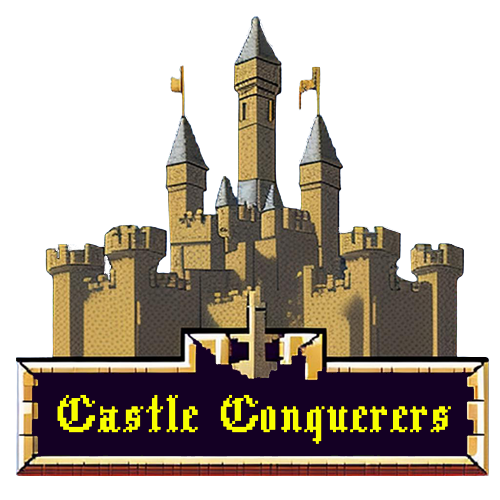
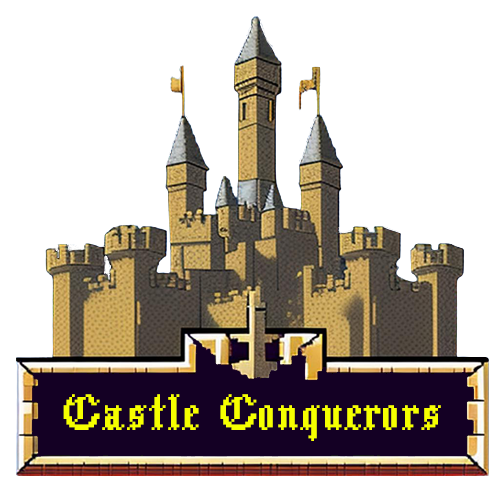
Refactor view for title (css)

Changed region(s): [[0.09, 0.78, 0.9, 0.9]]

diff --git a/ClientCastleConquerors/client-lib/src/main/resources/static/styles/homePage.css b/ClientCastleConquerors/client-lib/src/main/resources/static/styles/homePage.css
@@ -171,7 +171,7 @@ body.fade-out {
 /* game title styles */
 .login-body .game-title {
     position: absolute;
-    top: 20%;
+    top: 10%;
     text-shadow: 3px 3px 0 rgba(0,0,0,0.2), -3px -3px 0 rgba(0,0,0,0.2), 3px -3px 0 rgba(0,0,0,0.2), -3px 3px 0 rgba(0,0,0,0.2);
     font-family: StgoticW00-Regular;
     font-size: 3.2rem;

diff --git a/ClientCastleConquerors/client-lib/src/main/java/main/Endpoints.java b/ClientCastleConquerors/client-lib/src/main/java/main/Endpoints.java
@@ -23,9 +23,9 @@ public class Endpoints {
 	
 	@GetMapping("/game") 
 	public String getGamePage(Model model, HttpSession session) {
-		if (!isLoggedIn(session)) return "redirect:/login";
-    	String loggedInUser = getLoggedInUser(session);
-        model.addAttribute("loggedInUser", loggedInUser);
+//		if (!isLoggedIn(session)) return "redirect:/login";
+//    	String loggedInUser = getLoggedInUser(session);
+//        model.addAttribute("loggedInUser", loggedInUser);
 		return "gamePage";
 	}
 	
